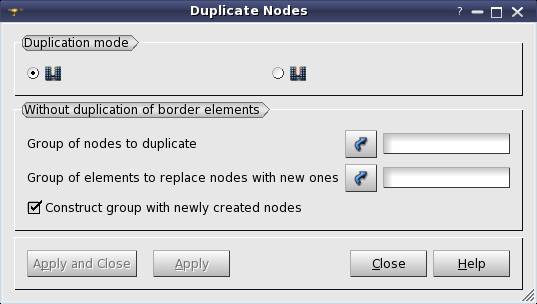
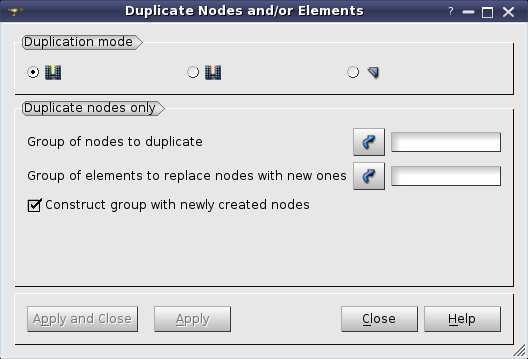
0022108: EDF 2547 SMESH: Duplicate elements only

Changed region(s): [[0.0, 0.0, 1.0, 1.0], [0.0303, 0.6513, 0.5758, 0.7105]]

diff --git a/doc/salome/examples/transforming_meshes_ex11.py b/doc/salome/examples/transforming_meshes_ex11.py
@@ -1,13 +1,14 @@
-# Duplicate nodes
+# Duplicate nodes or/and elements
 
 
 import salome
 salome.salome_init()
+
 import GEOM
 from salome.geom import geomBuilder
 geompy = geomBuilder.New(salome.myStudy)
 
-import SMESH, SALOMEDS
+import SMESH
 from salome.smesh import smeshBuilder
 smesh =  smeshBuilder.New(salome.myStudy)
 
@@ -24,7 +25,7 @@ mesh.Hexahedron()
 # Compute mesh
 mesh.Compute()
 
-# Without the duplication of border elements
+# Duplicate nodes only
 
 # Nodes to duplicate
 nodes1 = mesh.CreateEmptyGroup( SMESH.NODE, 'nodes1' )
@@ -48,7 +49,7 @@ print "Nodes       : ", mesh.NbNodes()
 print "Edges       : ", mesh.NbEdges()
 print "Quadrangles : ", mesh.NbQuadrangles()
 
-# With the duplication of border elements
+# Duplicate nodes and border elements
 
 # Edges to duplicate
 edges = mesh.CreateEmptyGroup( SMESH.EDGE, 'edges' )
@@ -75,6 +76,19 @@ print "\nMesh after the second nodes duplication:"
 print "Nodes       : ", mesh.NbNodes()
 print "Edges       : ", mesh.NbEdges()
 print "Quadrangles : ", mesh.NbQuadrangles()
+
+
+# Duplicate elements only
+
+# Duplicate all faces and make a group of new faces.
+# If a mesh is given to DoubleElements(), all elements of the greatest dimension are duplicated
+newFacesGroup = mesh.DoubleElements( mesh, "newFacesGroup" )
+
+# Duplicate edges contained in the group "edges" and add new edges to this group
+mesh.DoubleElements( edges, edges.GetName() )
+
+# Duplicate two first edges of the mesh
+mesh.DoubleElements([ 1, 2 ])
 
 # Update object browser
 if salome.sg.hasDesktop():
